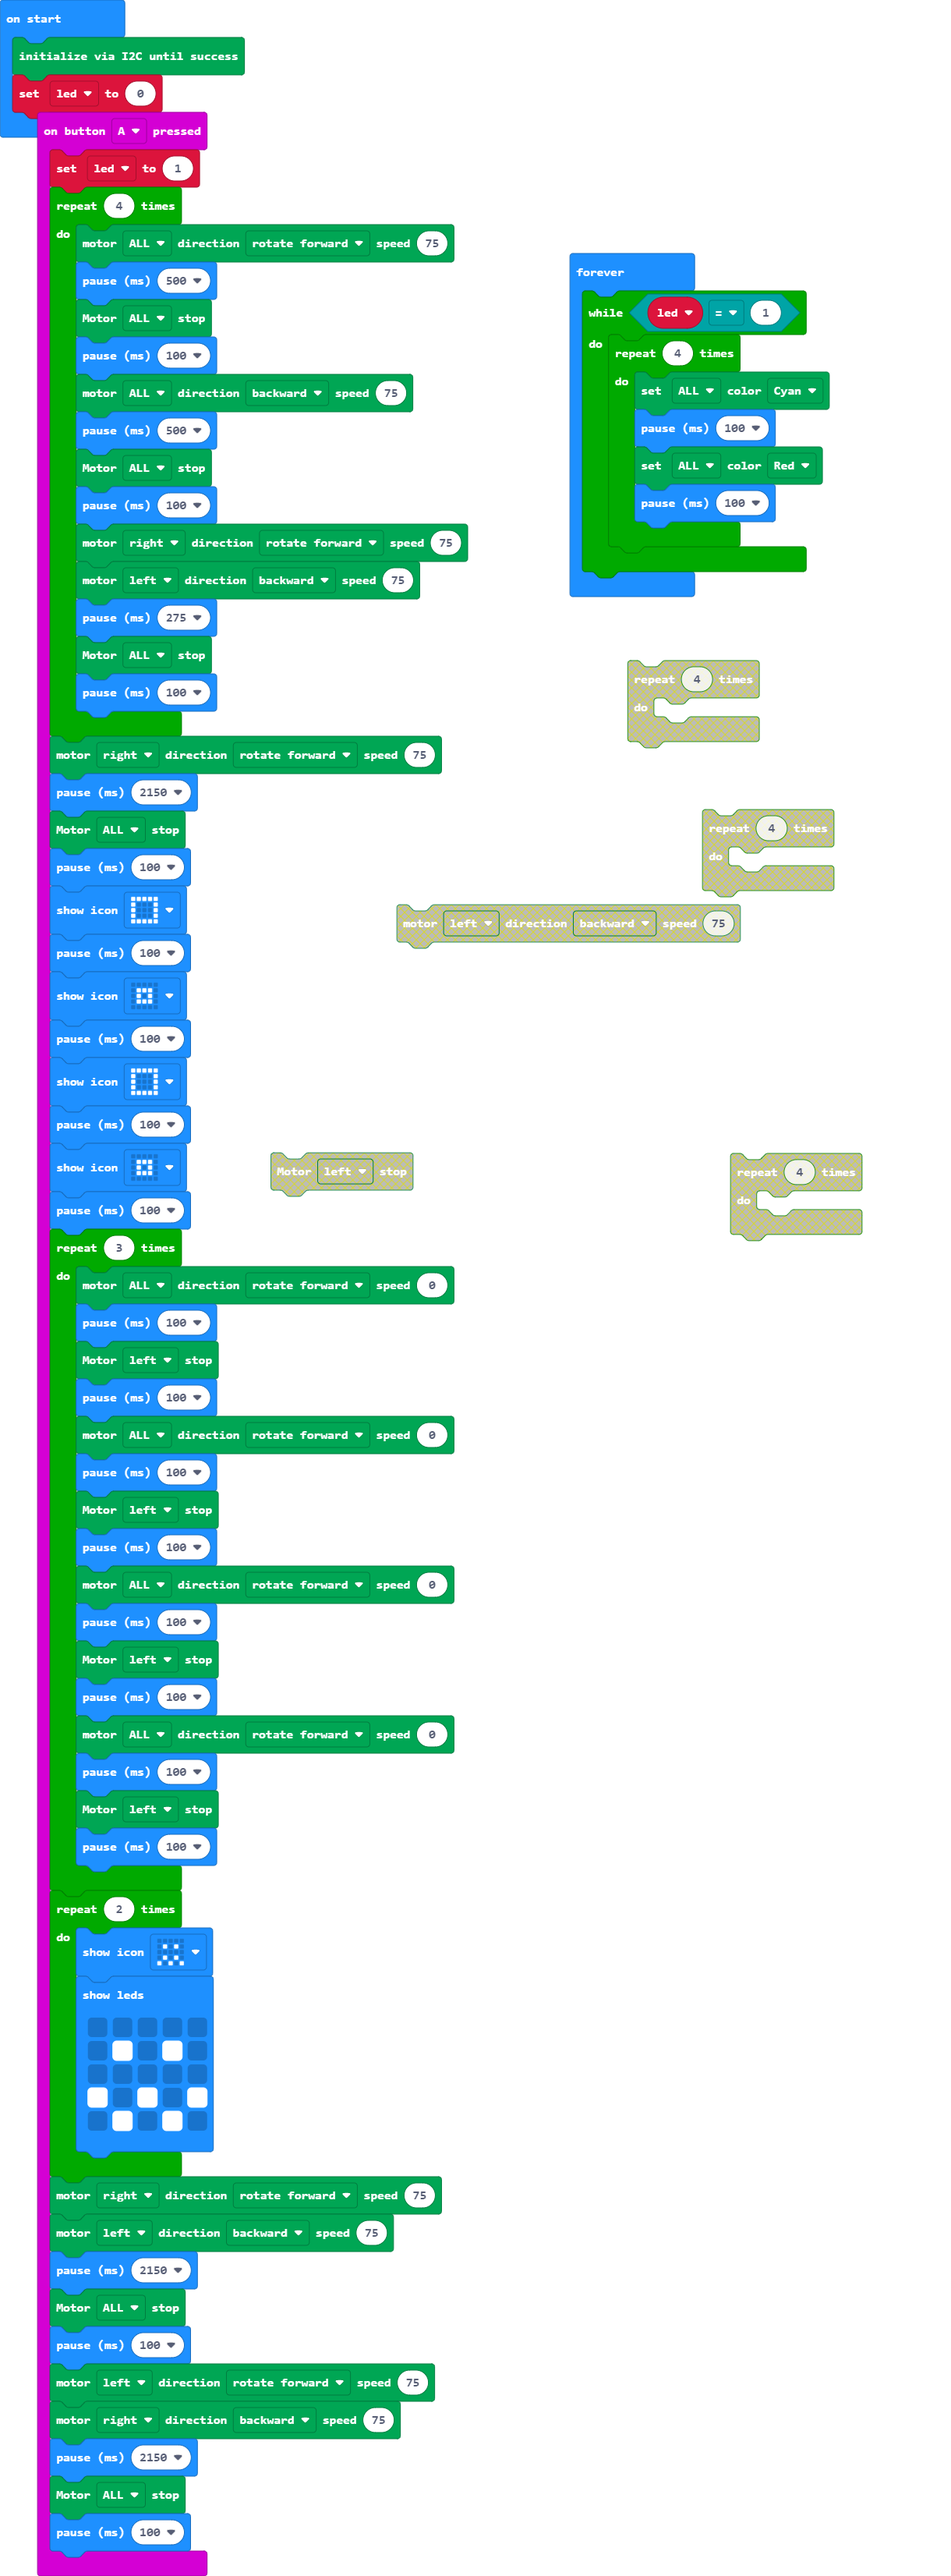
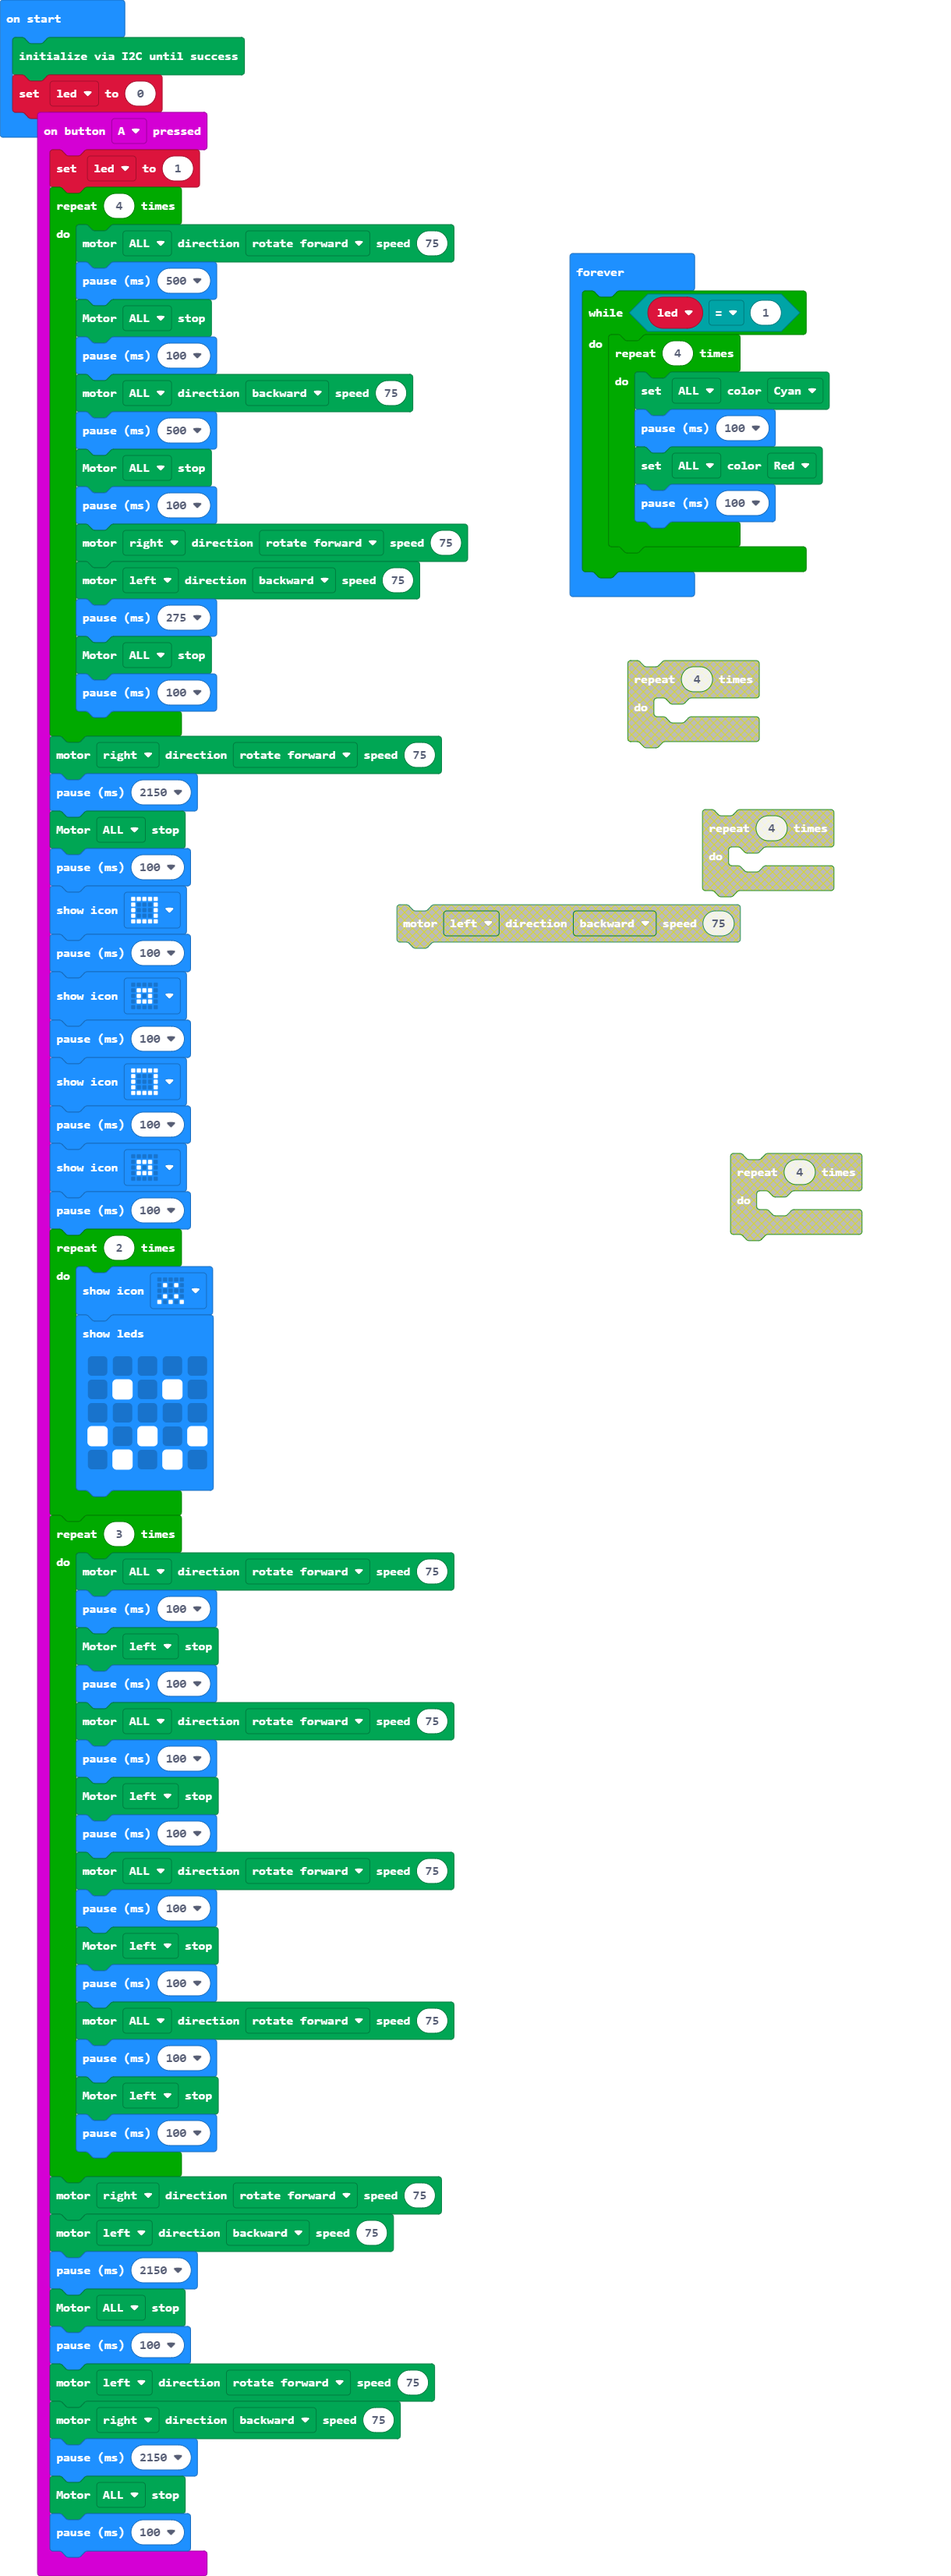
Update main.blocks, main.ts

Changed region(s): [[0.0623, 0.4366, 0.4984, 0.842]]

diff --git a/main.ts b/main.ts
@@ -27,24 +27,6 @@ input.onButtonPressed(Button.A, function () {
     basic.pause(100)
     basic.showIcon(IconNames.SmallSquare)
     basic.pause(100)
-    for (let index = 0; index < 3; index++) {
-        DFRobotMaqueenPlus.mototRun(Motors.ALL, Dir.CW, 0)
-        basic.pause(100)
-        DFRobotMaqueenPlus.mototStop(Motors.M1)
-        basic.pause(100)
-        DFRobotMaqueenPlus.mototRun(Motors.ALL, Dir.CW, 0)
-        basic.pause(100)
-        DFRobotMaqueenPlus.mototStop(Motors.M1)
-        basic.pause(100)
-        DFRobotMaqueenPlus.mototRun(Motors.ALL, Dir.CW, 0)
-        basic.pause(100)
-        DFRobotMaqueenPlus.mototStop(Motors.M1)
-        basic.pause(100)
-        DFRobotMaqueenPlus.mototRun(Motors.ALL, Dir.CW, 0)
-        basic.pause(100)
-        DFRobotMaqueenPlus.mototStop(Motors.M1)
-        basic.pause(100)
-    }
     for (let index = 0; index < 2; index++) {
         basic.showIcon(IconNames.Confused)
         basic.showLeds(`
@@ -54,6 +36,24 @@ input.onButtonPressed(Button.A, function () {
             # . # . #
             . # . # .
             `)
+    }
+    for (let index = 0; index < 3; index++) {
+        DFRobotMaqueenPlus.mototRun(Motors.ALL, Dir.CW, 75)
+        basic.pause(100)
+        DFRobotMaqueenPlus.mototStop(Motors.M1)
+        basic.pause(100)
+        DFRobotMaqueenPlus.mototRun(Motors.ALL, Dir.CW, 75)
+        basic.pause(100)
+        DFRobotMaqueenPlus.mototStop(Motors.M1)
+        basic.pause(100)
+        DFRobotMaqueenPlus.mototRun(Motors.ALL, Dir.CW, 75)
+        basic.pause(100)
+        DFRobotMaqueenPlus.mototStop(Motors.M1)
+        basic.pause(100)
+        DFRobotMaqueenPlus.mototRun(Motors.ALL, Dir.CW, 75)
+        basic.pause(100)
+        DFRobotMaqueenPlus.mototStop(Motors.M1)
+        basic.pause(100)
     }
     DFRobotMaqueenPlus.mototRun(Motors.M2, Dir.CW, 75)
     DFRobotMaqueenPlus.mototRun(Motors.M1, Dir.CCW, 75)
